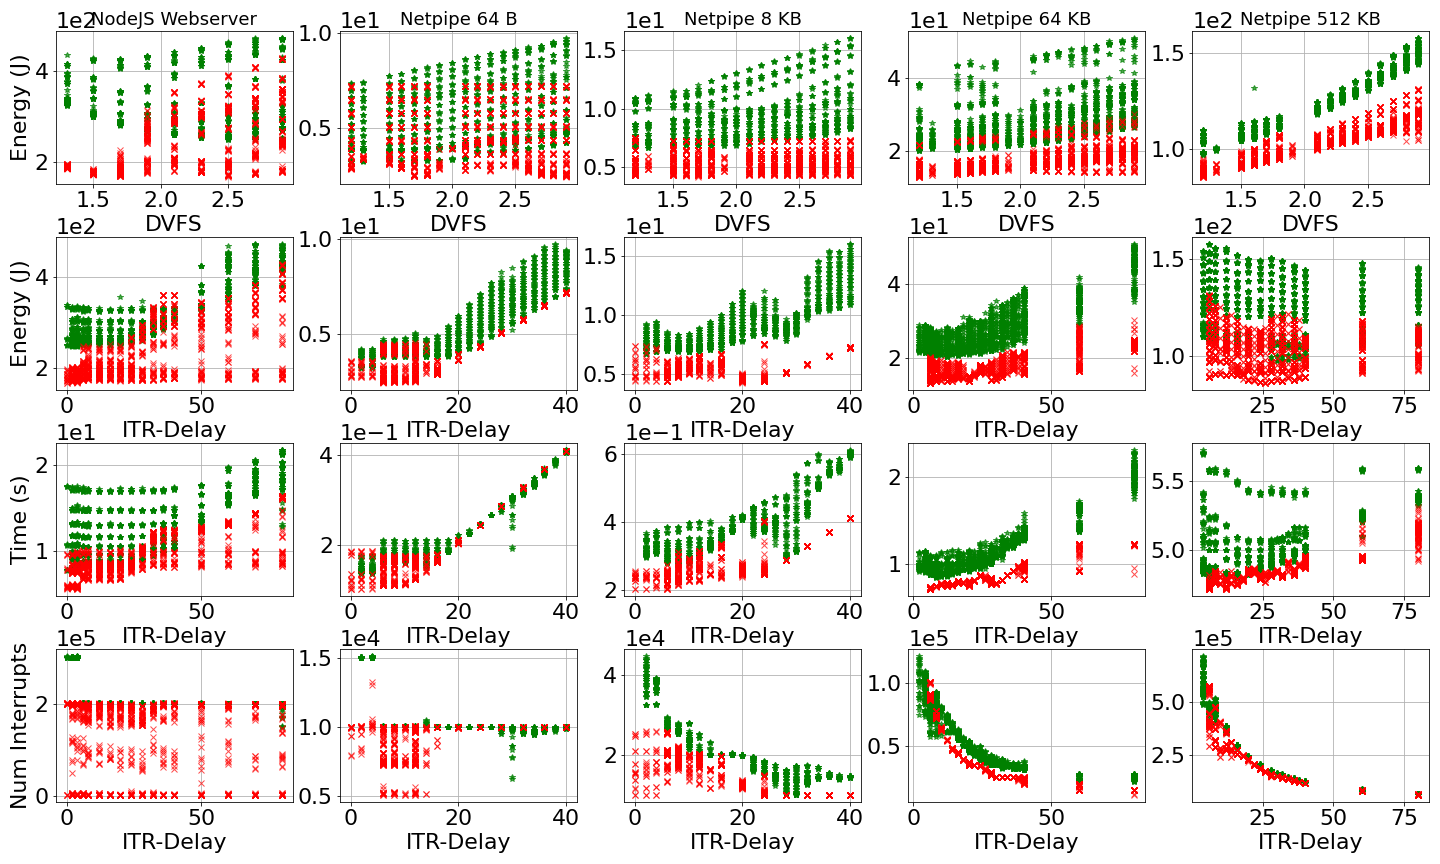
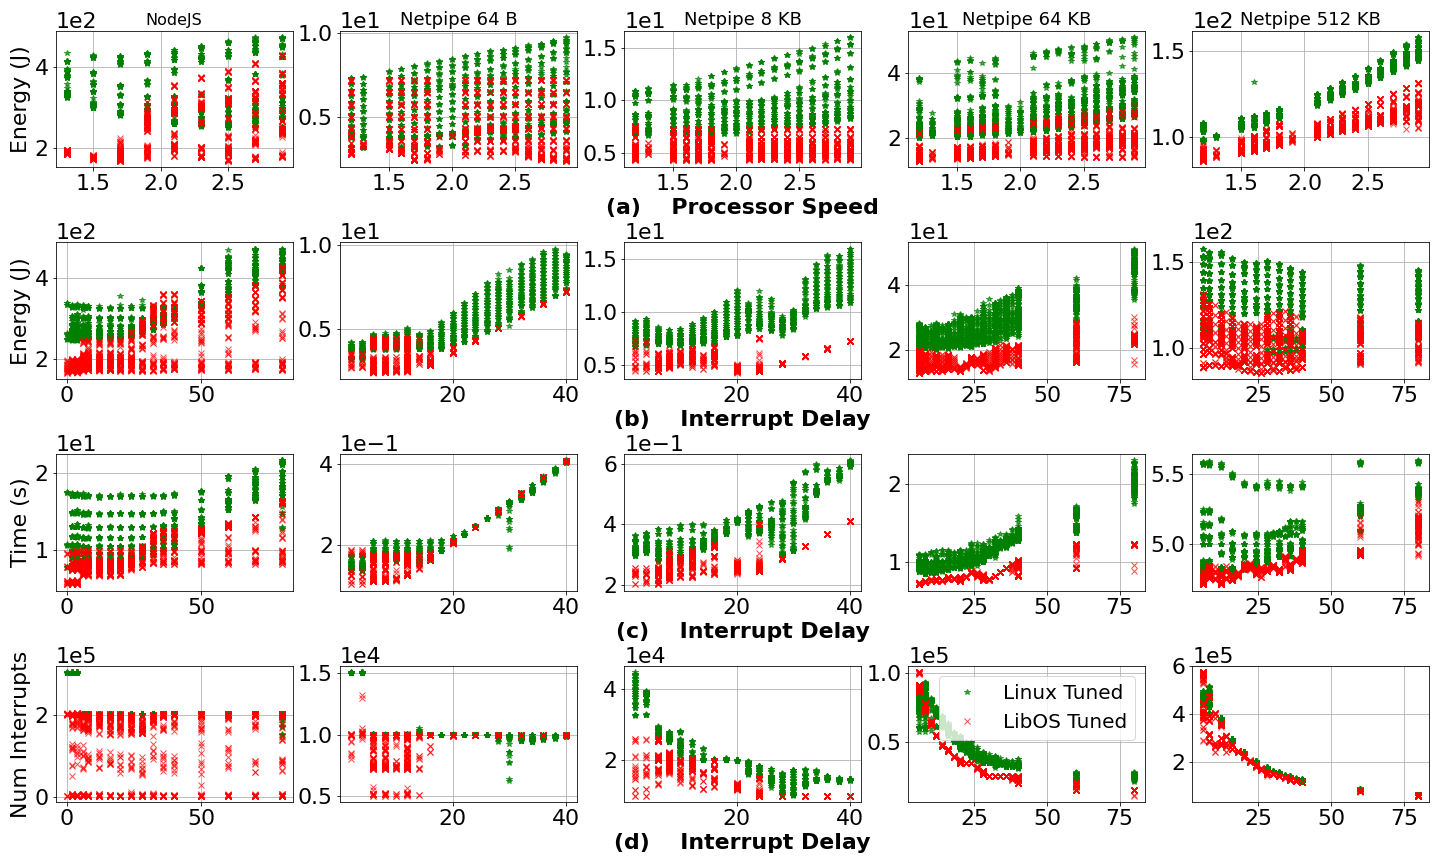
Updates from Overleaf

diff --git a/sosp-21/exp.tex b/sosp-21/exp.tex
@@ -1,0 +1,11 @@
+\label{sec:exp}
+Figures~\ref{fig:closed_loop_overview}~\ref{fig:mcd_overview},~\ref{fig:mcdsilo_overview} shows an overview of all the experimental datapoints gathered across the different applications and their respective loads as listed in table~\ref{table:wrkcfgs}. For each workload, we break down the differences in slowing down in the respective system types in terms of performance (time for closed-loop and 99\% tail latency for open-loop) and their respective energy use. In order to reason about the trade-offs that occur when slowing down the processor speed and interrupt delay, we use two graphical mechanism to highlight the differences: 
+\begin{enumerate}
+    \item The \textit{size} of each point is representative of the degree with which the interrupt delay used; the \textit{larger} the size the more interrupt delay is \textit{increased} while the \textit{smaller} the size the more it is \textit{decreased} (faster network interrupts).
+    \item The \textit{color gradient} of each point represents the degree of slowing down processor speeds; the \textbf{darker} the color the more the processor has been slowed and vice-versa when the color is \textit{lighter}.
+\end{enumerate}
+
+In total, we conducted this study across four system types across the two OSes. For linux and the libOS, the bulk of this work is focused on studying the effects of slowing down processor and interrupts by statically tuning them, and in the figures below, we refer to these datapoints as \textit{LibOS-tuned} and \textit{Linux-tuned}. As a baseline for linux, we tested a configuration where it is not statically tuned (\textit{Linux-default}). For the libOS, we also explored a version of slowing down the processor by replacing network interrupts with a polling loop(\textit{LibOS-poll}). Furthermore, for each of the system type that we've measured, the configuration that yielded the best performance and best (lowest) energy are indicated with a {\larger[4]\textbf{+}} and {\larger[4]\textbf{x}} respectively.
+
+\subsection{LibOS-poll}
+The simple run-to-completion, and lightweight event-driven execution model of the libOS allows us to uniquely explore the performance-energy trade-offs of slowing down the processor in the context of a polling loop for packet processing. Intel's 82599 NIC defines two hardware registers that enable automatic clearing and masking of interrupts per receive and transmit queue. To enable polling, we 1) enable auto clearing of network interrupts in order to receive the very first interrupt of every queue, and we 2) disable auto masking to prevent future interrupts on that particular queue. Next, we wrote a custom network interrupt handler for that very first interrupt which effectively calls the packet processing function in a tight loop. To enable interrupts, we enable both interrupt clearing and masking and set the interrupt handler to be the same packet processing function.

diff --git a/sosp-21/closed_loop.tex b/sosp-21/closed_loop.tex
@@ -1,6 +1,5 @@
 \subsection{Closed Loop}
 \label{sec:closed_loop}
-
 \begin{figure*}
 \centering
 %\vspace*{-0.3cm}  
@@ -10,7 +9,6 @@
 {Closed loops.}
 \label{fig:closed_loop_overview}
 \end{figure*}
-
 \begin{figure*}
 \centering
 %\vspace*{-0.3cm}  
@@ -20,3 +18,8 @@
 {Closed loops.}
 \label{fig:closed_loop_detail_1}
 \end{figure*}
+%This approach makes the workloads more predictable and can help smooth out diurnal variations as well~\cite{10.1145/2168836.2168842, 10.1145/2000064.2019527, oldi-study}.
+As pointed out in previous studies of energy proportionality in datacenters, the nature of web-centric applications causes diurnal troughs~\cite{Barroso:2009:DCI:1643608, oldi-study, oldi-pegasus, warehouse-power, energyproportion, WebSearch} and one method with which to increase energy efficiency during these troughs is to maximize the amount of work done, typically under a given energy budget. Figure~\ref{fig:closed_loop_overview} illustrates the set of closed-loop workloads studied in our work, all of the workloads are run in a single core with a single connection, further, they enable us to explore these simple closed-loop examples in detail in settings of computationally intensive (nodejs) and across varying network bandwidth requirements (netpipe). Netpipe~\cite{snell1996netpipe} involves sending messages of identical size between two systems for a fixed number of iterations. We fix the iteration count at 5000 and show results for a range of message sizes. \footnote{We found that the 10 GB link is close to saturation when a message of size greater 700 KB is exchanged.}. NodeJS~\cite{nodejs} runs a JavaScript HTTP Webserver and consists of a single client, running the \textit{wrk}~\cite{wrk} benchmark\footnote{We modified \textit{wrk} to place a fixed request load of 100K.}, that sends web requests to a server thread for a fixed period of time. The server responds to each request with a small static payload of size 148 bytes. The library OS was ported to support baremetal NodeJS by providing OS interfaces that link with the V8~\cite{v8} JavaScript engine and libuv~\cite{libuv}. We believe these set of workloads will help to simplify the complexity which to compare and contrast the effects of slowing down in the four types of systems listed above.
+
+\subsection{Observation-1: }
+\subsection{Finding-1: Slow-to-stay-busy}

diff --git a/sosp-21/exp_setup.tex b/sosp-21/exp_setup.tex
@@ -298,16 +298,16 @@ we disable hyperthreads and Turbo Boost features on all processors.
 
 \subsection{OS Software}
 \label{sec:OS}
-As noted, we run our experiments using
-Linux and a libOS, both running baremetal.
-%We use a statically configured libOS,
-%a statically configured build of Linux,
-%and a build of Linux that uses default power management mechanisms.
-We adjust the above hardware settings statically in the libOS and Linux and compare
-against default Linux with its dynamic policies enabled.
-In our figures and analysis,
-we refer to these OSes as \textit{LibOS tuned},
-\textit{Linux tuned}, and \textit{Linux default}, respectively.
+% As noted, we run our experiments using
+% Linux and a libOS, both running baremetal.
+% %We use a statically configured libOS,
+% %a statically configured build of Linux,
+% %and a build of Linux that uses default power management mechanisms.
+% We adjust the above hardware settings statically in the libOS and Linux and compare
+% against default Linux with its dynamic policies enabled.
+% In our figures and analysis,
+% we refer to these OSes as \textit{LibOS tuned},
+% \textit{Linux tuned}, and \textit{Linux default}, respectively.
 
 
 \subsubsection{Linux}

diff --git a/sosp-21/main.tex b/sosp-21/main.tex
@@ -47,6 +47,7 @@
 \input{exp_setup}
 
 \section{Experimental Results}
+\input{exp}
 \input{closed_loop}
 \input{mcd}
 \input{mcdsilo}

diff --git a/sosp-21/ja-notes.md b/sosp-21/ja-notes.md
@@ -189,8 +189,7 @@ Closed loop and open loop model
 Network driven services are the hallmark of Cloud Computing.  Achieving the required performance while consuming the least amount of energy is a fundamental goal for a provider.   In this paper, we carefully break down and study network driven processing and demonstrate the positive impacts and interactions that the OS can have when slowing down the CPU and delaying interrupt delivery.  Often one can significantly reduce energy consumption with very little impact on performance.  Give an example from results here. 
 
 
-While many have studied power management mechanisms and control from an architectural or application perspective we approach the subject from and OS research vantage point.  Our goal is not the construction of a particular policy or mechanism rather it is to quantify and explain how and why slowing down processing can be beneficial.  Our work extends and builds upon that of Sueur et al. and Mootaz et al.  Sueur et al. noted that to guide an OS designer it is critical to analyses the system as a whole, including the workload, to determine whether using mechanisms such as DVFS [Dynamic Voltage Frequency Scaling to slow processing down] will be effective at reducing energy consumption. While Mootaz et al observed that delaying request processing can result in batching effects that permit power savings while maintaining tail latency requirements for web serving.                                                                                                                                  
-
+While many have studied power management mechanisms and control from an architectural or application perspective we approach the subject from and OS research vantage point.  Our goal is not the construction of a particular policy or mechanism rather it is to quantify and explain how and why slowing down processing can be beneficial.  Our work extends and builds upon that of Sueur et al. and Mootaz et al.  Sueur et al. noted that to guide an OS designer it is critical to analyses the system as a whole, including the workload, to determine whether using mechanisms such as DVFS [Dynamic Voltage Frequency Scaling to slow processing down] will be effective at reducing energy consumption. While Mootaz et al observed that delaying request processing can result in batching effects that permit power savings while maintaining tail latency requirements for web serving.                                                          
 
 More recently, Chou et al. proposed a dynamic control policy in the context of micro-services that advocates for a mixing both the slowing down of the CPU and delaying processing in a latency sensitive manner.   The authors focus is one of policy development with little insight into the impact that the OS's design and implementation has.    
 
